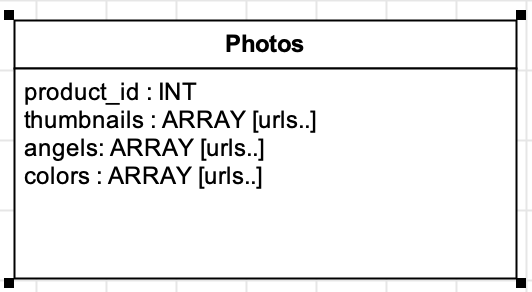
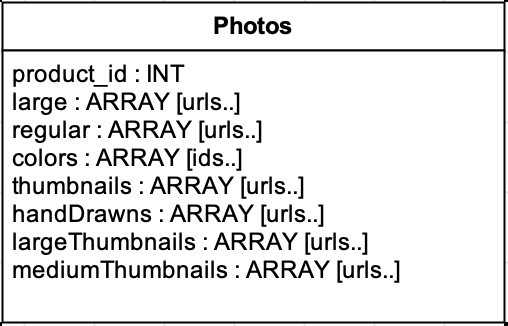
Added Readme & updated schema

Changed region(s): [[0.0, 0.0, 1.0, 1.0]]

diff --git a/README.md b/README.md
@@ -17,7 +17,85 @@
 
 ## Usage
 
-> Some usage instructions
+> Basic Usage & Sample JSONs
+> Examples are based on: https://www.ikea.com/us/en/p/malm-underbed-storage-box-for-high-bed-black-brown-60252721/
+
+  - For regular images displayed on the product main page
+  ```JSON
+  {
+    regular: [
+      'https://www.ikea.com/us/en/images/products/malm-underbed-storage-box-for-high-bed-black-brown__0636236_pe697747_s5.jpg?f=xxs',
+      'https://www.ikea.com/us/en/images/products/malm-underbed-storage-box-for-high-bed-black-brown__0452609_ph133274_s5.jpg?f=xxs',
+      'https://www.ikea.com/us/en/images/products/malm-underbed-storage-box-for-high-bed-black-brown__0735708_pe740106_s5.jpg?f=xxs'
+    ]
+  }
+  ```
+
+  - For large images when the user clicks on the image on the produce size
+  ```JSON
+    {
+     large: [
+       'https://www.ikea.com/us/en/images/products/malm-underbed-storage-box-for-high-bed-black-brown__0636236_pe697747_s5.jpg?f=s',
+       'https://www.ikea.com/us/en/images/products/malm-underbed-storage-box-for-high-bed-black-brown__0452609_ph133274_s5.jpg?f=s',
+       'https://www.ikea.com/us/en/images/products/malm-underbed-storage-box-for-high-bed-black-brown__0735708_pe740106_s5.jpg?f=s'
+     ],
+    }
+  ```
+
+
+  - For ids of other colors images of the current product
+    - These ids will be used to make API requests for other colors
+    - These other colors are actual products (different price, name)
+  ```JSON
+    {
+      colors: [ 1, 2, 3 ]
+    }
+  ```
+
+  - For hand-drawn-style images of the product-size service if any
+  ```JSON
+    {
+      handDrawns: [
+        'https://www.ikea.com/us/en/images/products/malm-underbed-storage-box-for-high-bed-black-brown__0722637_pe733678_s5.jpg?f=xxs'
+      ],
+    }
+  ```
+
+  - For large thumbnail images used on:
+    * "Other also viewed"
+    * "Goes well with"
+    * "More from product series"
+    ```JSON
+      {
+        largeThumbnails: [
+          'https://www.ikea.com/us/en/images/products/malm-underbed-storage-box-for-high-bed-black-brown__0636236_pe697747_s5.jpg?f=xxxs',
+          'https://www.ikea.com/us/en/images/products/malm-underbed-storage-box-for-high-bed-black-brown__0452609_ph133274_s5.jpg?f=xxxs'
+        ],
+      }
+    ```
+
+  - For medium thumbnail images used on:
+    * "Similar Products"
+    ```JSON
+      mediumThumbnails: [
+        'https://www.ikea.com/us/en/images/products/malm-underbed-storage-box-for-high-bed-black-brown__0636236_pe697747_s5.jpg?f=u',
+        'https://www.ikea.com/us/en/images/products/malm-underbed-storage-box-for-high-bed-black-brown__0452609_ph133274_s5.jpg?f=u'
+      ],
+    ```
+
+  - For small thumbnail images used on:
+    * "Colors" under "About" section
+    ```JSON
+      {
+        smallThumbnails: [
+          'https://www.ikea.com/us/en/images/products/malm-underbed-storage-box-for-high-bed-black-brown__0636236_pe697747_s5.jpg?f=xu',
+          'https://www.ikea.com/us/en/images/products/malm-underbed-storage-box-for-high-bed-gray-stained__0780033_pe759757_s5.jpg?f=xu',
+          'https://www.ikea.com/us/en/images/products/malm-underbed-storage-box-for-high-bed-white__0636233_pe697745_s5.jpg?f=xu',
+          'https://www.ikea.com/us/en/images/products/malm-underbed-storage-box-for-high-bed-white-stained-oak-veneer__0636234_pe697749_s5.jpg?f=xu'
+        ],
+      }
+    ```
+
 
 ## Requirements
 
